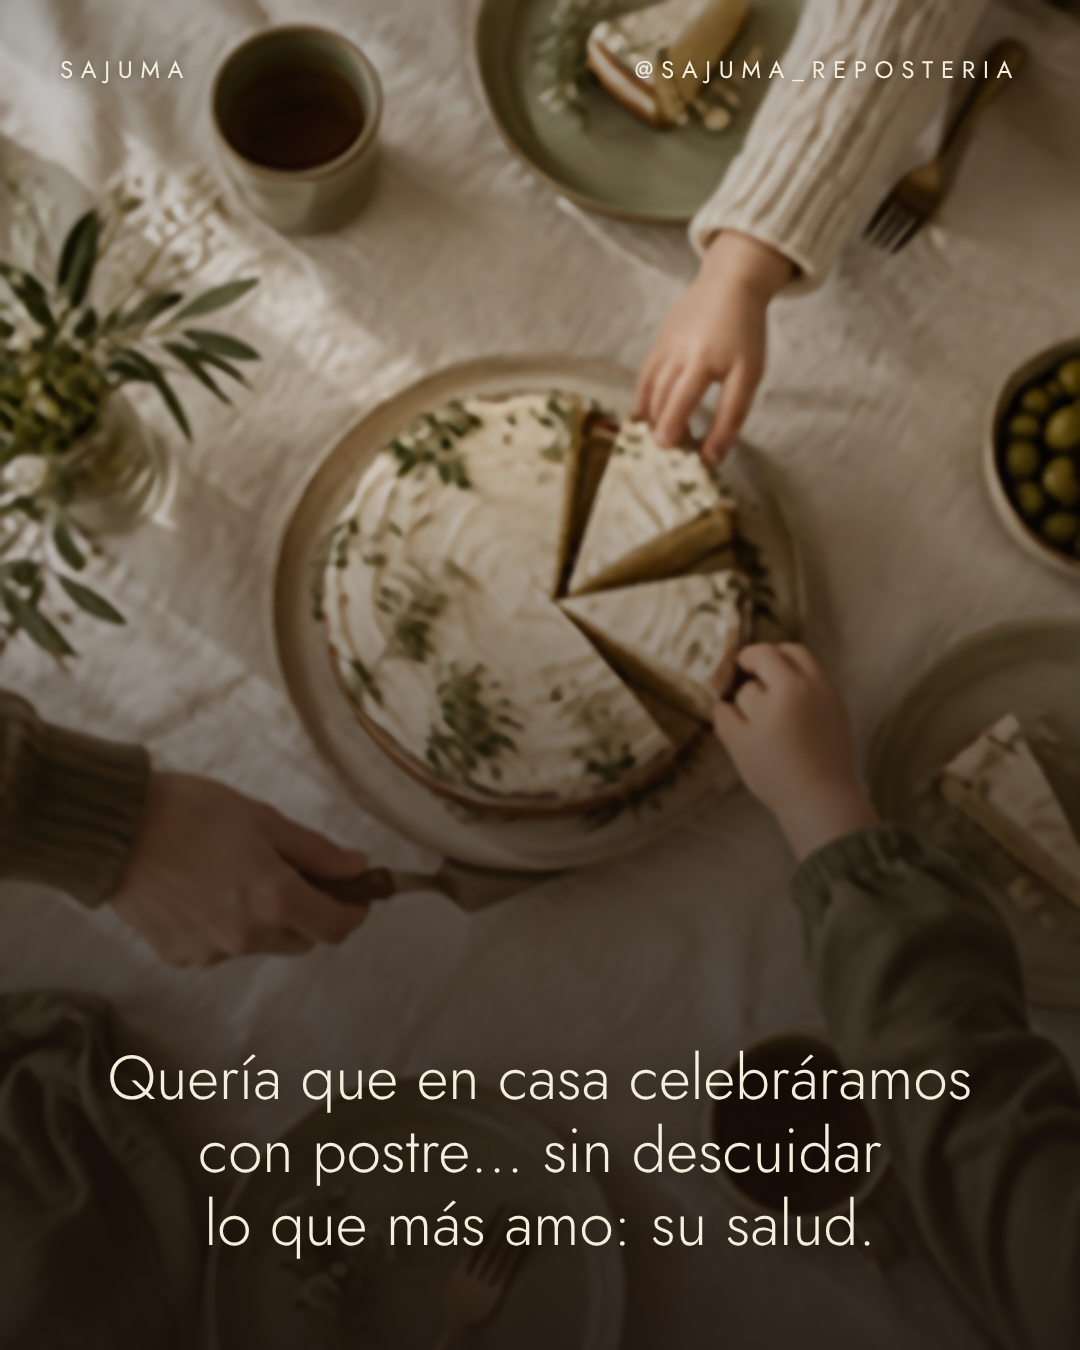
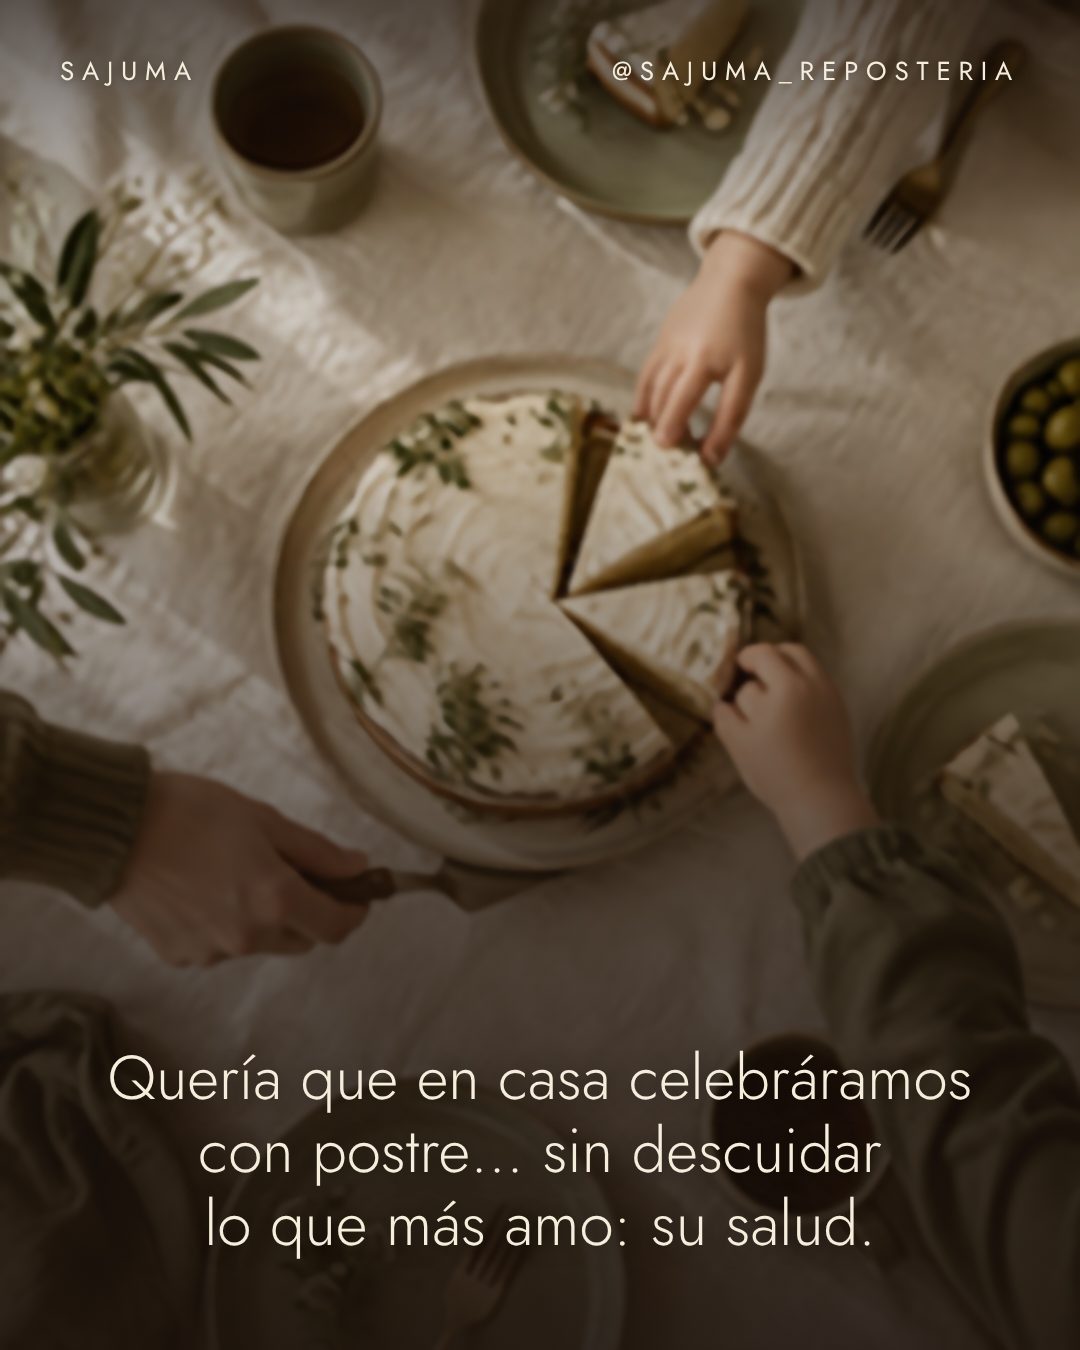
SAJUMA carrusel 1: usuario legible en las 7 slides
Claude-Session: https://claude.ai/code/session_018d4LXHkXweDJXxfN5x99dL

Changed region(s): [[0.0, 0.0, 0.4583, 0.1244], [0.4889, 0.0, 0.9472, 0.1244], [0.9778, 0.0, 1.0, 0.0622]]

diff --git a/carruseles/sajuma-1-todo-empezo-en-mi-cocina/carrusel.html b/carruseles/sajuma-1-todo-empezo-en-mi-cocina/carrusel.html
@@ -3,7 +3,8 @@
 *{box-sizing:border-box;margin:0;padding:0}
 body{background:#222;display:flex;flex-direction:column;align-items:center;gap:40px;padding:40px 0;font-family:"Jost",sans-serif}
 .slide{position:relative;width:1080px;height:1350px;overflow:hidden}
-.brand{position:absolute;z-index:9;left:60px;right:60px;top:52px;display:flex;justify-content:space-between;font-weight:400;font-size:24px;letter-spacing:.32em;text-shadow:0 1px 10px rgba(0,0,0,.35)}
+.brand{position:absolute;z-index:9;left:60px;right:60px;top:52px;display:flex;justify-content:space-between;font-weight:400;font-size:26px;letter-spacing:.3em;text-shadow:0 1px 10px rgba(0,0,0,.35)}
+.topscrim{position:absolute;left:0;right:0;top:0;height:220px;z-index:3;background:linear-gradient(180deg,rgba(28,18,12,.55),rgba(28,18,12,0))}
 .intro{position:absolute;left:0;right:0;text-align:center;font-weight:300;font-size:54px;letter-spacing:-.005em}
 .big{position:absolute;left:0;right:0;text-align:center;font-family:"Gloock",serif;line-height:.98;letter-spacing:-.01em}
 .g{font-family:"Gloock",serif;line-height:1}
@@ -22,12 +23,12 @@ body{background:#222;display:flex;flex-direction:column;align-items:center;gap:4
 <div class="big" style="top:235px;font-size:176px">¿se lo<br>daría a<br>mis hijos?</div>
 <div class="shadow" style="left:350px;top:1190px;width:380px"></div>
 <img class="hero" src="img/cupcake.png" style="left:330px;top:700px;width:420px">
-<div class="cap" style="bottom:38px">DESLIZA →</div></section><section class="slide" style="background:#2a1d14"><div class="photo" style="height:1350px;background-image:url(img/full-02-manos-masa.jpg)"></div><div class="scrim"></div><div class="brand" style="color:#F5EEDC"><span>SAJUMA</span><span>@SAJUMA_REPOSTERIA</span></div><div class="over"><div class="g" style="font-size:150px">Soy Miryam.</div><div class="t1" style="font-size:60px;margin-top:14px">Mamá antes que pastelera.</div></div></section><section class="slide" style="background:#2a1d14"><div class="photo" style="height:1350px;background-image:url(img/full-03-mesa-familiar.jpg)"></div><div class="scrim"></div><div class="brand" style="color:#F5EEDC"><span>SAJUMA</span><span>@SAJUMA_REPOSTERIA</span></div><div class="over"><div class="t1" style="font-size:62px">Quería que en casa celebráramos con postre… sin descuidar lo que más amo: su salud.</div></div></section><section class="slide" style="background:#2a1d14"><div class="photo" style="height:1350px;background-image:url(img/full-04-ingredientes.jpg)"></div><div class="scrim"></div><div class="brand" style="color:#F5EEDC"><span>SAJUMA</span><span>@SAJUMA_REPOSTERIA</span></div><div class="over"><div class="t1" style="font-size:58px">Así que empecé a cambiar ingredientes.</div><div class="g" style="font-size:150px;margin-top:10px">uno por uno.</div></div></section><section class="slide" style="background:#A3AE84;color:#3E4A35"><div class="brand" style="color:#3E4A35"><span>SAJUMA</span><span>@SAJUMA_REPOSTERIA</span></div>
+<div class="cap" style="bottom:38px">DESLIZA →</div></section><section class="slide" style="background:#2a1d14"><div class="photo" style="height:1350px;background-image:url(img/full-02-manos-masa.jpg)"></div><div class="scrim"></div><div class="topscrim"></div><div class="brand" style="color:#F5EEDC"><span>SAJUMA</span><span>@SAJUMA_REPOSTERIA</span></div><div class="over"><div class="g" style="font-size:150px">Soy Miryam.</div><div class="t1" style="font-size:60px;margin-top:14px">Mamá antes que pastelera.</div></div></section><section class="slide" style="background:#2a1d14"><div class="photo" style="height:1350px;background-image:url(img/full-03-mesa-familiar.jpg)"></div><div class="scrim"></div><div class="topscrim"></div><div class="brand" style="color:#F5EEDC"><span>SAJUMA</span><span>@SAJUMA_REPOSTERIA</span></div><div class="over"><div class="t1" style="font-size:62px">Quería que en casa celebráramos con postre… sin descuidar lo que más amo: su salud.</div></div></section><section class="slide" style="background:#2a1d14"><div class="photo" style="height:1350px;background-image:url(img/full-04-ingredientes.jpg)"></div><div class="scrim"></div><div class="topscrim"></div><div class="brand" style="color:#F5EEDC"><span>SAJUMA</span><span>@SAJUMA_REPOSTERIA</span></div><div class="over"><div class="t1" style="font-size:58px">Así que empecé a cambiar ingredientes.</div><div class="g" style="font-size:150px;margin-top:10px">uno por uno.</div></div></section><section class="slide" style="background:#A3AE84;color:#3E4A35"><div class="brand" style="color:#3E4A35"><span>SAJUMA</span><span>@SAJUMA_REPOSTERIA</span></div>
 <div class="intro" style="top:190px;font-size:50px">Y descubrí algo:</div>
 <div class="big" style="top:262px;font-size:112px;line-height:1">lo rico también<br>puede cuidarte</div>
 <div class="shadow" style="left:200px;top:1240px;width:680px;opacity:.5"></div>
 <img class="hero" src="img/torta-frutas.png" style="left:170px;top:600px;width:740px">
-</section><section class="slide" style="background:#2a1d14"><div class="photo" style="height:1350px;background-image:url(img/full-06-horno.jpg)"></div><div class="scrim"></div><div class="brand" style="color:#F5EEDC"><span>SAJUMA</span><span>@SAJUMA_REPOSTERIA</span></div><div class="over"><div class="t1" style="font-size:64px">Si era bueno para mi familia, podía ser bueno para la tuya.</div></div></section><section class="slide" style="background:#F5EEDC;color:#3E4A35"><div class="brand" style="color:#3E4A35"><span>SAJUMA</span><span>@SAJUMA_REPOSTERIA</span></div>
+</section><section class="slide" style="background:#2a1d14"><div class="photo" style="height:1350px;background-image:url(img/full-06-horno.jpg)"></div><div class="scrim"></div><div class="topscrim"></div><div class="brand" style="color:#F5EEDC"><span>SAJUMA</span><span>@SAJUMA_REPOSTERIA</span></div><div class="over"><div class="t1" style="font-size:64px">Si era bueno para mi familia, podía ser bueno para la tuya.</div></div></section><section class="slide" style="background:#F5EEDC;color:#3E4A35"><div class="brand" style="color:#3E4A35"><span>SAJUMA</span><span>@SAJUMA_REPOSTERIA</span></div>
 <div class="intro" style="top:330px;font-size:60px;color:#2a2a24">Así nació</div>
 <img src="ref/sajuma-logo-transparente.png" style="position:absolute;left:150px;top:440px;width:780px">
 <div class="line"></div>

diff --git a/carruseles/sajuma-1-todo-empezo-en-mi-cocina/generar.py b/carruseles/sajuma-1-todo-empezo-en-mi-cocina/generar.py
@@ -4,7 +4,7 @@ USER='@sajuma_reposteria'
 NOMBRE='Miryam'   # reemplazar por el nombre de la dueña
 def brand(c='#F5EEDC'): return f'<div class="brand" style="color:{c}"><span>SAJUMA</span><span>{USER.upper()}</span></div>'
 def full(img,inner):
-    return f'<section class="slide" style="background:#2a1d14"><div class="photo" style="height:1350px;background-image:url(img/{img})"></div><div class="scrim"></div>{brand()}<div class="over">{inner}</div></section>'
+    return f'<section class="slide" style="background:#2a1d14"><div class="photo" style="height:1350px;background-image:url(img/{img})"></div><div class="scrim"></div><div class="topscrim"></div>{brand()}<div class="over">{inner}</div></section>'
 S=[]
 # 1 portada
 S.append(f'''<section class="slide" style="background:#3E4A35;color:#F5EEDC">{brand()}
@@ -38,7 +38,8 @@ css='''
 *{box-sizing:border-box;margin:0;padding:0}
 body{background:#222;display:flex;flex-direction:column;align-items:center;gap:40px;padding:40px 0;font-family:"Jost",sans-serif}
 .slide{position:relative;width:1080px;height:1350px;overflow:hidden}
-.brand{position:absolute;z-index:9;left:60px;right:60px;top:52px;display:flex;justify-content:space-between;font-weight:400;font-size:24px;letter-spacing:.32em;text-shadow:0 1px 10px rgba(0,0,0,.35)}
+.brand{position:absolute;z-index:9;left:60px;right:60px;top:52px;display:flex;justify-content:space-between;font-weight:400;font-size:26px;letter-spacing:.3em;text-shadow:0 1px 10px rgba(0,0,0,.35)}
+.topscrim{position:absolute;left:0;right:0;top:0;height:220px;z-index:3;background:linear-gradient(180deg,rgba(28,18,12,.55),rgba(28,18,12,0))}
 .intro{position:absolute;left:0;right:0;text-align:center;font-weight:300;font-size:54px;letter-spacing:-.005em}
 .big{position:absolute;left:0;right:0;text-align:center;font-family:"Gloock",serif;line-height:.98;letter-spacing:-.01em}
 .g{font-family:"Gloock",serif;line-height:1}
